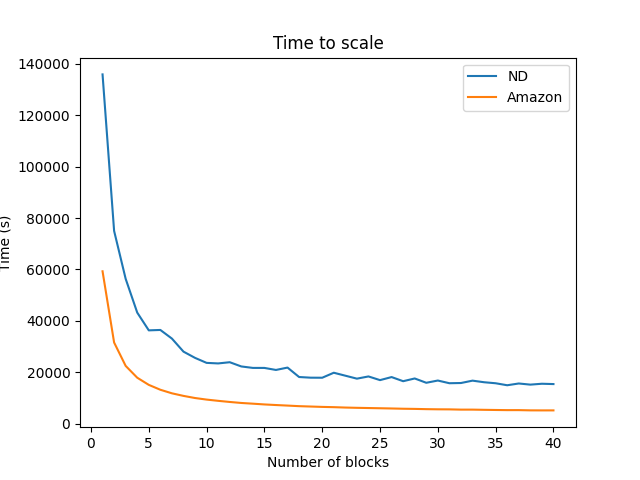
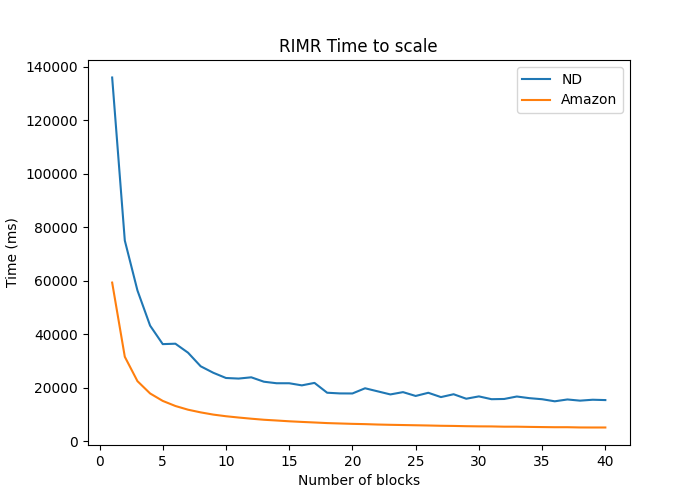
More stuff

diff --git a/RIM_data/gen_curip_graph_2.py b/RIM_data/gen_curip_graph_2.py
@@ -1,0 +1,243 @@
+import matplotlib.pyplot as plt
+import numpy as np
+import pandas as pd
+import networkx as nx
+import sys
+
+
+# version = int(sys.argv[1]) 
+
+# if version == 1:
+#     file_name = "/meas.csv"
+# elif version == 2:
+#     file_name = "/meas_2.csv"
+# elif version == 3:
+#     file_name = "/meas_3.csv"
+
+file_name = "/meas_8.csv"
+
+arxiv = "arvix"+file_name
+nd = "nd"+file_name
+berk = "berk"+file_name
+epinions = "epinions"+file_name
+wiki_talk = "wiki_talk"+file_name
+amazon = "amazon"+file_name
+HepTh = "HepTh"+file_name
+
+hep_df = pd.read_csv(HepTh)
+arxiv_df = pd.read_csv(arxiv)
+amazon_df = pd.read_csv(amazon)
+nd_df = pd.read_csv(nd)
+berk_df = pd.read_csv(berk)
+epinions_df = pd.read_csv(epinions)
+wiki_talk_df = pd.read_csv(wiki_talk)
+
+
+hep_df_ic_cu = hep_df.loc[:,"percent_IC_CU"].to_numpy()
+hep_df_lt_cu = hep_df.loc[:,"percent_LT_CU"].to_numpy()
+hep_df_ic = hep_df.loc[:,"percent_IC_RIMR"].to_numpy()
+hep_df_lt = hep_df.loc[:,"percent_LT_RIMR"].to_numpy()
+hep_df_ep = hep_df.loc[:,"eps"].to_numpy()
+hep_df_time_lt_cu = hep_df.loc[:,"time_cu_lt"].to_numpy()
+hep_df_time_ic_cu = hep_df.loc[:,"time_cu_ic"].to_numpy()
+hep_df_time_lt = hep_df.loc[:,"time(ms)"].to_numpy()
+hep_df_rimr_epochs = np.unique(hep_df.loc[:,"epochs"].to_numpy())
+hep_df_rimr_streams = np.unique(hep_df.loc[:,"streams"].to_numpy())
+hep_K = np.unique(hep_df.loc[:,"K"].to_numpy())
+hep_lt_speedup = hep_df.loc[:,"speedup_LT"].to_numpy()
+hep_ic_speedup = hep_df.loc[:,"speedup_IC"].to_numpy()
+hep_rimr_dist = hep_df.loc[:,"rimr_dist"].to_numpy()
+hep_ic_dist = hep_df.loc[:,"ic_dist"].to_numpy()
+hep_lt_dist = hep_df.loc[:,"lt_dist"].to_numpy()
+
+arxiv_df_ic_cu = arxiv_df.loc[:,"percent_IC_CU"].to_numpy()
+arxiv_df_lt_cu = arxiv_df.loc[:,"percent_LT_CU"].to_numpy()
+arxiv_df_ic = arxiv_df.loc[:,"percent_IC_RIMR"].to_numpy()
+arxiv_df_lt = arxiv_df.loc[:,"percent_LT_RIMR"].to_numpy()
+arxiv_df_ep = arxiv_df.loc[:,"eps"].to_numpy()
+arxiv_df_time_lt_cu = arxiv_df.loc[:,"time_cu_lt"].to_numpy()
+arxiv_df_time_ic_cu = arxiv_df.loc[:,"time_cu_ic"].to_numpy()
+arxiv_df_time_lt = arxiv_df.loc[:,"time(ms)"].to_numpy()
+arxiv_df_rimr_epochs = np.unique(arxiv_df.loc[:,"epochs"].to_numpy())
+arxiv_df_rimr_streams = np.unique(arxiv_df.loc[:,"streams"].to_numpy())
+arxiv_K = np.unique(arxiv_df.loc[:,"K"].to_numpy())
+arxiv_lt_speedup = arxiv_df.loc[:,"speedup_LT"].to_numpy()
+arxiv_ic_speedup = arxiv_df.loc[:,"speedup_IC"].to_numpy()
+arxiv_rimr_dist = arxiv_df.loc[:,"rimr_dist"].to_numpy()
+arxiv_ic_dist = arxiv_df.loc[:,"ic_dist"].to_numpy()
+arxiv_lt_dist = arxiv_df.loc[:,"lt_dist"].to_numpy()
+
+syn_df_ic_cu = nd_df.loc[:,"percent_IC_CU"].to_numpy()  
+syn_df_lt_cu = nd_df.loc[:,"percent_LT_CU"].to_numpy()
+syn_df_ic = nd_df.loc[:,"percent_IC_RIMR"].to_numpy()
+syn_df_lt = nd_df.loc[:,"percent_LT_RIMR"].to_numpy()
+syn_df_ep = nd_df.loc[:,"eps"].to_numpy()
+syn_df_time_lt_cu = nd_df.loc[:,"time_cu_lt"].to_numpy()
+syn_df_time_ic_cu = nd_df.loc[:,"time_cu_ic"].to_numpy()
+syn_df_time_lt = nd_df.loc[:,"time(ms)"].to_numpy()
+syn_df_rimr_epochs = np.unique(nd_df.loc[:,"epochs"].to_numpy())
+syn_df_rimr_streams = np.unique(nd_df.loc[:,"streams"].to_numpy())  
+syn_K = np.unique(nd_df.loc[:,"K"].to_numpy())
+syn_lt_speedup = nd_df.loc[:,"speedup_LT"].to_numpy()
+syn_ic_speedup = nd_df.loc[:,"speedup_IC"].to_numpy()
+syn_rimr_dist = nd_df.loc[:,"rimr_dist"].to_numpy()
+syn_ic_dist = nd_df.loc[:,"ic_dist"].to_numpy()
+syn_lt_dist = nd_df.loc[:,"lt_dist"].to_numpy()
+
+
+amazon_df_ic_cu = amazon_df.loc[:,"percent_IC_CU"].to_numpy()
+amazon_df_lt_cu = amazon_df.loc[:,"percent_LT_CU"].to_numpy()
+amazon_df_ic = amazon_df.loc[:,"percent_IC_RIMR"].to_numpy()
+amazon_df_lt = amazon_df.loc[:,"percent_LT_RIMR"].to_numpy()
+amazon_df_ep = amazon_df.loc[:,"eps"].to_numpy()
+amazon_df_time_lt_cu = amazon_df.loc[:,"time_cu_lt"].to_numpy()
+amazon_df_time_ic_cu = amazon_df.loc[:,"time_cu_ic"].to_numpy()
+amazon_df_time_lt = amazon_df.loc[:,"time(ms)"].to_numpy()
+amazon_df_rimr_epochs = np.unique(amazon_df.loc[:,"epochs"].to_numpy())
+amazon_df_rimr_streams = np.unique(amazon_df.loc[:,"streams"].to_numpy())
+amazon_K = np.unique(amazon_df.loc[:,"K"].to_numpy())
+amazon_lt_speedup = amazon_df.loc[:,"speedup_LT"].to_numpy()
+amazon_ic_speedup = amazon_df.loc[:,"speedup_IC"].to_numpy()
+amazon_rimr_dist = amazon_df.loc[:,"rimr_dist"].to_numpy()
+amazon_ic_dist = amazon_df.loc[:,"ic_dist"].to_numpy()
+amazon_lt_dist = amazon_df.loc[:,"lt_dist"].to_numpy()
+
+berk_df_ic_cu = berk_df.loc[:,"percent_IC_CU"].to_numpy()
+berk_df_lt_cu = berk_df.loc[:,"percent_LT_CU"].to_numpy()
+berk_df_ic = berk_df.loc[:,"percent_IC_RIMR"].to_numpy()
+berk_df_lt = berk_df.loc[:,"percent_LT_RIMR"].to_numpy()
+berk_df_ep = berk_df.loc[:,"eps"].to_numpy()
+berk_df_time_lt_cu = berk_df.loc[:,"time_cu_lt"].to_numpy()
+berk_df_time_ic_cu = berk_df.loc[:,"time_cu_ic"].to_numpy()
+berk_df_time_lt = berk_df.loc[:,"time(ms)"].to_numpy()
+berk_df_rimr_epochs = np.unique(berk_df.loc[:,"epochs"].to_numpy())
+berk_df_rimr_streams = np.unique(berk_df.loc[:,"streams"].to_numpy())
+berk_K = np.unique(berk_df.loc[:,"K"].to_numpy())
+berk_lt_speedup = berk_df.loc[:,"speedup_LT"].to_numpy()
+berk_ic_speedup = berk_df.loc[:,"speedup_IC"].to_numpy()
+berk_rimr_dist = berk_df.loc[:,"rimr_dist"].to_numpy()
+berk_ic_dist = berk_df.loc[:,"ic_dist"].to_numpy()
+berk_lt_dist = berk_df.loc[:,"lt_dist"].to_numpy()
+
+
+
+
+epinions_df_ic_cu = epinions_df.loc[:,"percent_IC_CU"].to_numpy()
+epinions_df_lt_cu = epinions_df.loc[:,"percent_LT_CU"].to_numpy()
+epinions_df_ic = epinions_df.loc[:,"percent_IC_RIMR"].to_numpy()
+epinions_df_lt = epinions_df.loc[:,"percent_LT_RIMR"].to_numpy()
+epinions_df_ep = epinions_df.loc[:,"eps"].to_numpy()
+epinions_df_time_lt_cu = epinions_df.loc[:,"time_cu_lt"].to_numpy()
+epinions_df_time_ic_cu = epinions_df.loc[:,"time_cu_ic"].to_numpy()
+epinions_df_time_lt = epinions_df.loc[:,"time(ms)"].to_numpy()
+epinions_df_rimr_epochs = np.unique(epinions_df.loc[:,"epochs"].to_numpy())
+epinions_df_rimr_streams = np.unique(epinions_df.loc[:,"streams"].to_numpy())
+epinions_K = np.unique(epinions_df.loc[:,"K"].to_numpy())
+epinions_lt_speedup = epinions_df.loc[:,"speedup_LT"].to_numpy()
+epinions_ic_speedup = epinions_df.loc[:,"speedup_IC"].to_numpy()
+epinions_rimr_dist = epinions_df.loc[:,"rimr_dist"].to_numpy()
+epinions_ic_dist = epinions_df.loc[:,"ic_dist"].to_numpy()
+epinions_lt_dist = epinions_df.loc[:,"lt_dist"].to_numpy()
+
+
+wiki_talk_df_ic_cu = wiki_talk_df.loc[:,"percent_IC_CU"].to_numpy()
+wiki_talk_df_lt_cu = wiki_talk_df.loc[:,"percent_LT_CU"].to_numpy()
+wiki_talk_df_ic = wiki_talk_df.loc[:,"percent_IC_RIMR"].to_numpy()
+wiki_talk_df_lt = wiki_talk_df.loc[:,"percent_LT_RIMR"].to_numpy()
+wiki_talk_df_ep = wiki_talk_df.loc[:,"eps"].to_numpy()
+wiki_talk_df_time_lt_cu = wiki_talk_df.loc[:,"time_cu_lt"].to_numpy()
+wiki_talk_df_time_ic_cu = wiki_talk_df.loc[:,"time_cu_ic"].to_numpy()
+wiki_talk_df_time_lt = wiki_talk_df.loc[:,"time(ms)"].to_numpy()
+wiki_talk_df_rimr_epochs = np.unique(wiki_talk_df.loc[:,"epochs"].to_numpy())
+wiki_talk_df_rimr_streams = np.unique(wiki_talk_df.loc[:,"streams"].to_numpy())
+wiki_talk_K = np.unique(wiki_talk_df.loc[:,"K"].to_numpy())
+wiki_talk_lt_speedup = wiki_talk_df.loc[:,"speedup_LT"].to_numpy()
+wiki_talk_ic_speedup = wiki_talk_df.loc[:,"speedup_IC"].to_numpy()
+wiki_talk_rimr_dist = wiki_talk_df.loc[:,"rimr_dist"].to_numpy()
+wiki_talk_ic_dist = wiki_talk_df.loc[:,"ic_dist"].to_numpy()
+wiki_talk_lt_dist = wiki_talk_df.loc[:,"lt_dist"].to_numpy()
+
+
+
+
+
+fig = plt.figure()
+fig.set_figheight(6)
+fig.set_figwidth(14)
+fig.suptitle("Epinions Results")
+
+
+ax1 = plt.subplot2grid((1, 15), (0, 0), colspan=4)
+ax2 = plt.subplot2grid((1, 15), (0, 5), colspan=4)
+ax3 = plt.subplot2grid((1, 15), (0, 10), colspan=4)
+
+
+# Add vertical space between the figures
+# plt.subplots_adjust(hspace=0.5)
+
+
+ax1.set_xlabel("K")
+ax1.set_ylabel("Spread")
+ax1.set_title("LT Spread vs K, HepTh")
+ax1.plot(epinions_K, epinions_df_lt_cu, label="CU")
+ax1.plot(epinions_K, epinions_df_lt, label="RIMR")
+ax1.legend()
+
+
+ax2.set_xlabel("K")
+ax2.set_ylabel("Spread")
+ax2.set_title("IC Spread vs K")
+ax2.plot(epinions_K, epinions_df_ic_cu, label="CU")
+ax2.plot(epinions_K, epinions_df_ic, label="RIMR")
+ax2.legend()
+
+
+ax3.set_xlabel("K")
+ax3.set_ylabel("Spread")
+ax3.set_title("SpeedUp vs K")
+ax3.plot(epinions_K, epinions_lt_speedup, label="LT")
+ax3.plot(epinions_K, epinions_ic_speedup, label="IC")
+ax3.legend()
+
+
+fig.savefig("epinions.png")
+
+fig = plt.figure()
+fig.set_figheight(6)
+fig.set_figwidth(14)
+fig.suptitle("Amazon Results")
+
+
+ax1 = plt.subplot2grid((1, 15), (0, 0), colspan=4)
+ax2 = plt.subplot2grid((1, 15), (0, 5), colspan=4)
+ax3 = plt.subplot2grid((1, 15), (0, 10), colspan=4)
+
+ax1.set_xlabel("K")
+ax1.set_ylabel("Spread")
+ax1.set_title("LT Spread vs K")
+ax1.plot(amazon_K, amazon_df_lt_cu, label="CU")
+ax1.plot(amazon_K, amazon_df_lt, label="RIMR")
+ax1.legend()
+
+
+ax2.set_xlabel("K")
+ax2.set_ylabel("Spread")
+ax2.set_title("IC Spread vs K")
+ax2.plot(amazon_K, amazon_df_ic_cu, label="CU")
+ax2.plot(amazon_K, amazon_df_ic, label="RIMR")
+ax2.legend()
+
+
+ax3.set_xlabel("K")
+ax3.set_ylabel("Spread")
+ax3.set_title("SpeedUp vs K")
+ax3.plot(amazon_K, amazon_lt_speedup, label="LT")
+ax3.plot(amazon_K, amazon_ic_speedup, label="IC")
+ax3.legend()
+
+fig.savefig("amazon.png")
+
+
+
+
+

diff --git a/RIM_data/scale.py b/RIM_data/scale.py
@@ -13,27 +13,28 @@ amazon_blocks = amazon.loc[:,"blocks"].to_numpy()
 amazon_time = amazon.loc[:,"time(ms)"].to_numpy()
 
 # Plot the data
-# plt.plot(nd_blocks, nd_time, label='ND')
-# plt.plot(amazon_blocks, amazon_time, label='Amazon')
-# plt.xlabel('Number of blocks')
-# plt.ylabel('Time (s)')
-# plt.title('Time to scale')
-# plt.legend()
+plt.figure(figsize=(7, 5))  # Set the figure size to 8 inches by 6 inches
 
-
-# plt.savefig('scale.png')
-
-## Plot speedup relative to 1 block
-speedup_nd = nd_time[0] / nd_time
-speedup_amazon = amazon_time[0] / amazon_time
-speedup_ideal = np.arange(1, 1+len(nd_blocks))
-
-plt.plot(nd_blocks, speedup_nd, label='ND')
-plt.plot(amazon_blocks, speedup_amazon, label='Amazon')
-plt.plot(nd_blocks, speedup_ideal, label='Ideal')
+plt.plot(nd_blocks, nd_time, label='ND')
+plt.plot(amazon_blocks, amazon_time, label='Amazon')
 plt.xlabel('Number of blocks')
-plt.ylabel('Speedup')
-plt.title('Speedup relative to 1 block')
+plt.ylabel('Time (ms)')
+plt.title('RIMR Time to scale')
 plt.legend()
 
-plt.savefig('speedup.png')
+plt.savefig('scale.png')
+
+## Plot speedup relative to 1 block
+# speedup_nd = nd_time[0] / nd_time
+# speedup_amazon = amazon_time[0] / amazon_time
+# speedup_ideal = np.arange(1, 1+len(nd_blocks))
+
+# plt.plot(nd_blocks, speedup_nd, label='ND')
+# plt.plot(amazon_blocks, speedup_amazon, label='Amazon')
+# plt.plot(nd_blocks, speedup_ideal, label='Ideal')
+# plt.xlabel('Number of blocks')
+# plt.ylabel('Speedup')
+# plt.title('RIMR Speedup relative to 1 block')
+# plt.legend()
+
+# plt.savefig('speedup.png')

diff --git a/RIM_data/gen_curip_graph.py b/RIM_data/gen_curip_graph.py
@@ -160,7 +160,7 @@ wiki_talk_lt_dist = wiki_talk_df.loc[:,"lt_dist"].to_numpy()
 
 
 fig = plt.figure()
-fig.set_figheight(6)
+fig.set_figheight(5)
 fig.set_figwidth(18)
 fig.suptitle("IC Spread, RIMR and curipples")
 
@@ -239,7 +239,7 @@ ax7.legend()
 fig.savefig("ic_spread_vs_K.png")
 
 fig = plt.figure()
-fig.set_figheight(6)
+fig.set_figheight(5)
 fig.set_figwidth(18)
 fig.suptitle("LT Spread, RIMR and curipples")
 
